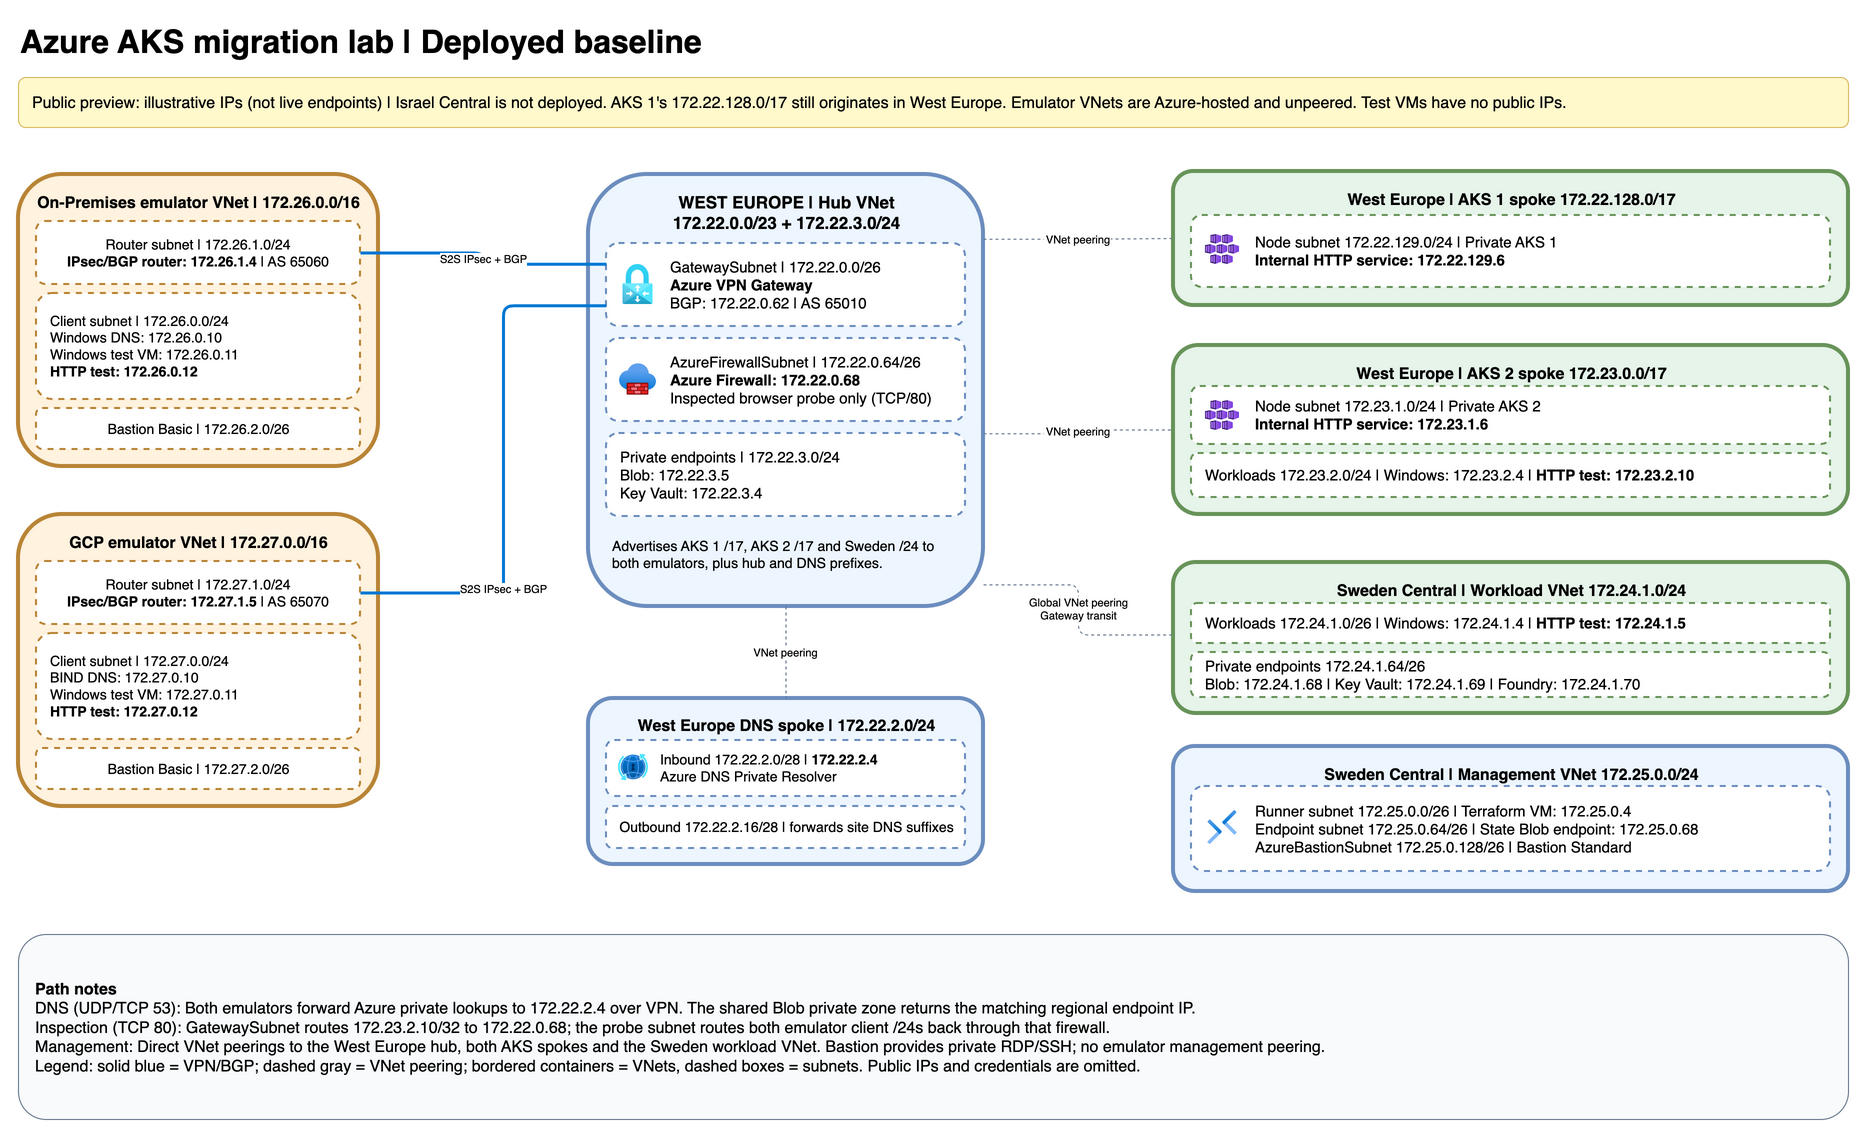
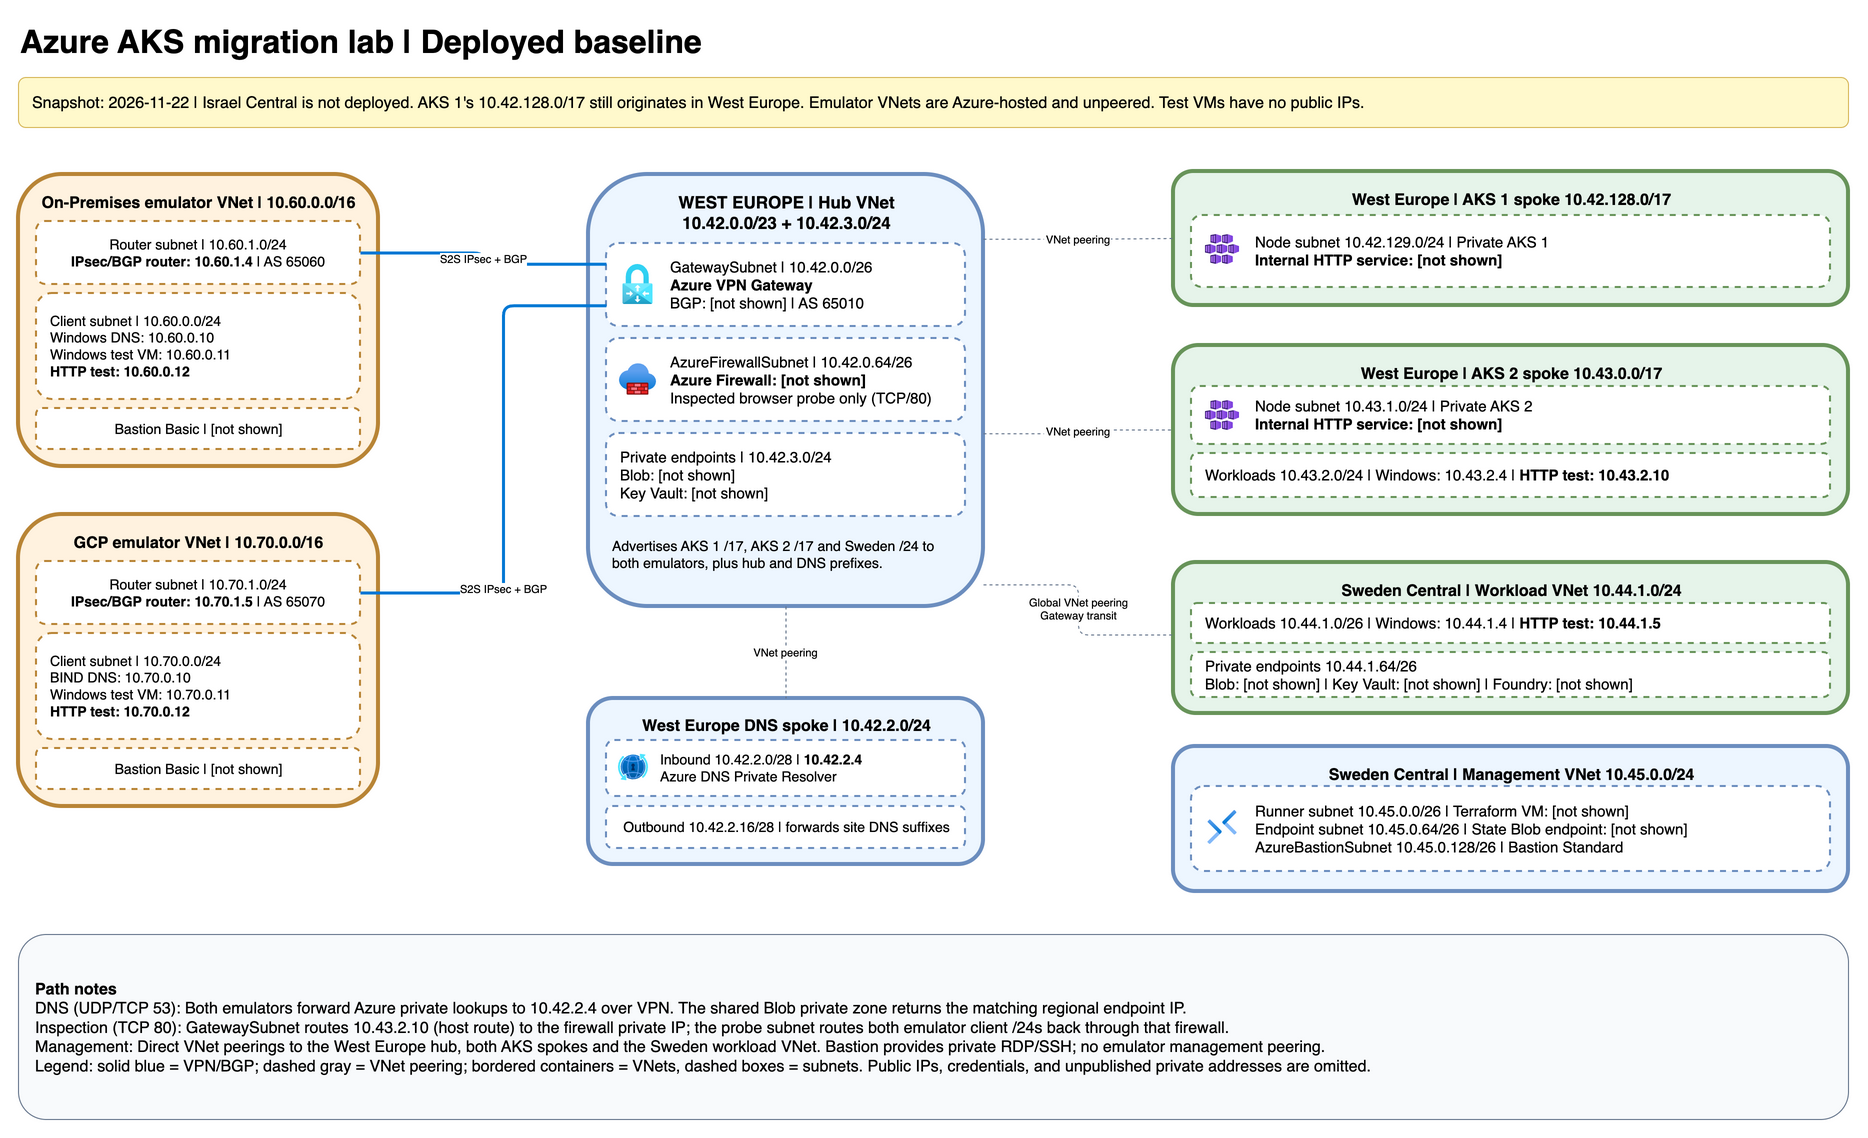
Show deployed network ranges in the lab topology

diff --git a/README.md b/README.md
@@ -10,9 +10,9 @@ The deployment lab uses two West Europe AKS spokes, Azure Firewall in both hubs,
 
 ### Deployed lab snapshot
 
-![Deployed Azure AKS migration lab topology with illustrative private addresses](./architecture/05-current-lab.png)
+![Deployed Azure AKS migration lab topology with actual VNet ranges, including the on-premises emulator at 10.60.0.0/16](./architecture/05-current-lab.png)
 
-The public snapshot uses illustrative IP addresses, not live endpoints.
+The snapshot shows deployed network ranges and private addresses already documented in this repository. Unpublished endpoint addresses are omitted.
 
 ### Current state: West Europe transit
 
